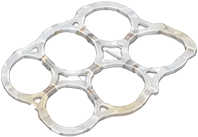
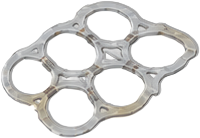
Simplify objectives and expand deep biome progression

Changed region(s): [[0.0, 0.0, 1.0, 0.9927]]

diff --git a/src/ui/App.jsx b/src/ui/App.jsx
@@ -88,14 +88,18 @@ function ConsolePopup({ titleId, descriptionId, onDismiss, className = '', child
     );
 }
 
-function CompletionPopup({ hasNextDive }) {
+function CompletionPopup({ nextLevelId, transitionDuration }) {
+    const nextDive = nextLevelId ? getLevel(nextLevelId).diveNumber : null;
     return (
         <ConsolePopup titleId="completion-heading" descriptionId="completion-description">
                     <svg className="dive-check" viewBox="0 0 64 64" aria-hidden="true"><circle cx="32" cy="32" r="28" /><path d="M 18 32 L 28 42 L 46 23" /></svg>
-                    <h2 id="completion-heading">DIVE COMPLETE</h2>
-                    <p id="completion-description">All objectives met</p>
+                    <h2 id="completion-heading">{nextLevelId ? 'GET READY' : 'DIVE COMPLETE'}</h2>
+                    <p id="completion-description">{nextLevelId ? `Preparing Dive ${nextDive}` : 'All objectives met'}</p>
                     <div className="completion-actions">
-                        {hasNextDive ? <p role="status">PREPARING NEXT DIVE...</p> : <button type="button" disabled>COMING SOON</button>}
+                        {nextLevelId ? <div className="transition-leds" role="status" aria-label={`Preparing Dive ${nextDive}`}>
+                            {Array.from({ length: 10 }, (_, index) => <i key={index} aria-hidden="true"
+                                style={{ animationDelay: `${(index + 1) * transitionDuration / 11}ms` }} />)}
+                        </div> : <button type="button" disabled>COMING SOON</button>}
                     </div>
         </ConsolePopup>
     );
@@ -125,7 +129,7 @@ function HelpPopup({ onStart }) {
                 <div><dt>A / D</dt><dd>Turn</dd></div>
                 <div><dt>SPACE</dt><dd>Extend the claws and grab objects</dd></div>
             </dl>
-            <p>Use the claws to collect cleanup items and recover artifacts you find along the way.</p>
+            <p>Use the claws to collect cleanup items you find along the way.</p>
             <p>Some objects may be partially hidden behind coral or plants. Check dense areas carefully.</p>
             <div className="completion-actions">
                 <button type="button" onClick={onStart}>RESUME DIVE</button>
@@ -136,9 +140,6 @@ function HelpPopup({ onStart }) {
 
 function MissionStatus({ state, onHelp, onRestart, helpDisabled, restartDisabled }) {
     // Read the active generated mission snapshot; never generate assets during render.
-    const requiredCount = kind => new Set(state.objectives
-        .filter(o => o.kind === kind)
-        .flatMap(o => o.objectIds ?? [])).size;
 
     return (
         <aside className="instrument-rail left-rail" aria-label="Mission instruments">
@@ -146,8 +147,6 @@ function MissionStatus({ state, onHelp, onRestart, helpDisabled, restartDisabled
                 <h2 id="mission-heading">MISSION STATUS</h2>
                 <dl className="status-values">
                     <div className="cleanup-value"><dt>Cleanup</dt><dd>{state.cleanupCount} / {state.cleanupRequired}</dd></div>
-                    <div className="discovery-value"><dt>Discoveries</dt><dd>{state.discoveries.length} / {requiredCount('discovery')}</dd></div>
-                    <div className="artifact-value"><dt>Artifacts</dt><dd>{state.artifactCount} / {state.artifactsRequired}</dd></div>
                 </dl>
             </section>
             <DiveStatus currentLevelId={state.currentLevelId} levelComplete={state.levelComplete} progressPercentage={state.progressPercentage} hasNextLevel={Boolean(getNextLevelId(state.currentLevelId))} />
@@ -161,7 +160,7 @@ function MissionStatus({ state, onHelp, onRestart, helpDisabled, restartDisabled
 
 }
 
-export default function App({ gameState, mountGame, sessionSize, onStartDive, onHelpChange, onRestartDive }) {
+export default function App({ gameState, mountGame, sessionSize, onStartDive, onHelpChange, onRestartDive, transitionDuration }) {
     const state = useSyncExternalStore(gameState.subscribe, gameState.getSnapshot);
     const [showHelp, setShowHelp] = useState(false);
     const [showStart, setShowStart] = useState(true);
@@ -190,7 +189,7 @@ export default function App({ gameState, mountGame, sessionSize, onStartDive, on
                 <GameViewport mountGame={mountGame} />
                 {showBriefing && intro && <BiomeBriefing intro={intro} onBegin={() => { onStartDive(); setStartedBiome(currentBiome); setShowStart(false); }} />}
                 {showHelp && !showCompletion && <HelpPopup onStart={() => { onHelpChange(false); setShowHelp(false); }} />}
-                {!showBriefing && showCompletion && <CompletionPopup hasNextDive={Boolean(getNextLevelId(state.currentLevelId))} />}
+                {!showBriefing && showCompletion && <CompletionPopup key={state.currentLevelId} nextLevelId={getNextLevelId(state.currentLevelId)} transitionDuration={transitionDuration} />}
             </div>
             <aside className="right-rail" aria-hidden="true" />
             <footer className="chassis-trim">

diff --git a/src/state/gameState.js b/src/state/gameState.js
@@ -4,12 +4,6 @@
 // objectives omitted from that list are optional and do not affect the percentage.
 // threshold is a fraction (0–1, default 1). mandatoryObjectiveIds must also be
 // fully completed regardless of threshold; they do not add extra progress weight.
-const progressFields = {
-    cleanup: 'cleanedObjectIds',
-    inspect: 'inspectedObjectIds',
-    discovery: 'discoveries',
-    artifact: 'artifacts',
-};
 
 function freeze(value) {
     if (value && typeof value === 'object') {
@@ -26,13 +20,8 @@ export function createGameState() {
         currentLevelId: null,
         objectives: [],
         cleanedObjectIds: [],
-        inspectedObjectIds: [],
-        discoveries: [],
-        artifacts: [],
         cleanupCount: 0,
         cleanupRequired: 0,
-        artifactCount: 0,
-        artifactsRequired: 0,
         score: 0,
         resources: {},
         progressPercentage: 0,
@@ -46,10 +35,9 @@ export function createGameState() {
 
     function derive(next) {
         next.cleanupCount = next.cleanedObjectIds.length;
-        next.artifactCount = next.artifacts.length;
-        next.objectives = level.objectives.map(objective => {
+        next.objectives = level.objectives.filter(objective => objective.kind === 'cleanup').map(objective => {
             const ids = objective.objectIds ?? [];
-            const recorded = next[progressFields[objective.kind]] ?? [];
+            const recorded = next.cleanedObjectIds;
             const current = ids.filter(id => recorded.includes(id)).length;
             return {
                 ...objective,
@@ -62,9 +50,6 @@ export function createGameState() {
         const required = requiredIds.map(id => next.objectives.find(o => o.id === id));
         next.cleanupRequired = new Set(required
             .filter(objective => objective?.kind === 'cleanup')
-            .flatMap(objective => objective.objectIds)).size;
-        next.artifactsRequired = new Set(required
-            .filter(objective => objective?.kind === 'artifact')
             .flatMap(objective => objective.objectIds)).size;
         next.progressPercentage = required.length === 0 ? 0 :
             100 * required.reduce((sum, objective) => sum +
@@ -79,12 +64,10 @@ export function createGameState() {
         return next;
     }
 
-    function record(kind, id) {
-        const field = progressFields[kind];
+    function recordCleanup(id) {
         const object = level?.objects.find(object => object.id === id);
-        const allowed = kind === 'inspect' ? object?.inspectable : object?.kind === kind;
-        if (!allowed || snapshot[field].includes(id)) return;
-        publish(derive({ ...snapshot, [field]: [...snapshot[field], id] }));
+        if (object?.kind !== 'cleanup' || snapshot.cleanedObjectIds.includes(id)) return;
+        publish(derive({ ...snapshot, cleanedObjectIds: [...snapshot.cleanedObjectIds, id] }));
     }
 
     return {
@@ -100,9 +83,6 @@ export function createGameState() {
                 currentLevelId: level.id,
                 objectives: [],
                 cleanedObjectIds: [],
-                inspectedObjectIds: [],
-                discoveries: [],
-                artifacts: [],
                 cleanupCount: 0,
                 score: 0,
                 resources: {},
@@ -110,9 +90,6 @@ export function createGameState() {
                 levelComplete: false,
             }));
         },
-        recordCleanup: id => record('cleanup', id),
-        recordInspection: id => record('inspect', id),
-        recordDiscovery: id => record('discovery', id),
-        recordArtifact: id => record('artifact', id),
+        recordCleanup,
     };
 }

diff --git a/src/ui/shell.css b/src/ui/shell.css
@@ -16,8 +16,6 @@
     --accent-yellow: #efac31;
     --border-dark: #071923;
     --readout-cleanup: #ff6450;
-    --readout-discovery: #65ddf6;
-    --readout-artifact: #ffc34b;
     --dive-active: #80ddbd;
     --dive-success: #8dffb5;
 }
@@ -55,8 +53,6 @@ h2 { font-size: 12px; letter-spacing: 0.7px; margin: 0 0 10px; }
 .status-values dd { margin: 2px 0 0; color: inherit; font-family: 'Suboceanic LCD', 'Courier New', monospace; font-style: normal; font-weight: 400; font-variant-numeric: tabular-nums; }
 .status-values dd { text-align: right; font-size: 28px; }
 .cleanup-value { color: var(--readout-cleanup); }
-.discovery-value { color: var(--readout-discovery); }
-.artifact-value { color: var(--readout-artifact); }
 .status-values dd { text-shadow: 0 0 7px currentColor; }
 .dive-status { padding: 12px; margin-top: 12px; color: var(--dive-active); flex: none; }
 .dive-status h2 { padding-bottom: 9px; border-bottom: 1px solid #698087; }
@@ -98,6 +94,9 @@ h2 { font-size: 12px; letter-spacing: 0.7px; margin: 0 0 10px; }
 .completion-inner h2 { margin: 0; font: 25px 'Suboceanic LCD', 'Courier New', monospace; text-shadow: 0 0 7px #8dffb555; }
 .completion-inner p { margin: 12px 0 22px; color: var(--text-cream); font-size: 13px; }
 .completion-actions { display: flex; gap: 12px; }
+.transition-leds { display: grid; grid-template-columns: repeat(10, 1fr); gap: 5px; width: 100%; padding: 4px 0 8px; }
+.transition-leds i { height: 10px; border: 1px solid #45615b; background: #152f38; animation: transition-led-on 0s forwards; }
+@keyframes transition-led-on { to { background: var(--dive-success); border-color: var(--dive-success); } }
 .completion-actions button { flex: 1; padding: 10px 8px; border: 2px solid #736d59; border-radius: 6px; background: var(--console-cream); color: var(--border-dark); font: bold 11px Arial, sans-serif; box-shadow: inset 0 1px 0 #fff8, 0 2px 1px #0005; cursor: pointer; }
 .completion-actions button:disabled { opacity: 0.4; cursor: default; }
 .completion-actions button:focus-visible { outline: 2px solid var(--dive-success); outline-offset: 3px; }

diff --git a/src/systems/LevelObjects.js b/src/systems/LevelObjects.js
@@ -106,9 +106,9 @@ export default class LevelObjects {
         ]);
         const requiredIds = new Set(snapshot.objectives
             .filter(objective => requiredObjectives.has(objective.id) &&
-                (objective.kind === 'cleanup' || objective.kind === 'artifact'))
+                objective.kind === 'cleanup')
             .flatMap(objective => objective.objectIds));
-        const collected = new Set([...snapshot.cleanedObjectIds, ...snapshot.artifacts]);
+        const collected = new Set(snapshot.cleanedObjectIds);
         return [...requiredIds].filter(id => !collected.has(id));
     }
 
@@ -272,8 +272,7 @@ export default class LevelObjects {
 
         for (const object of this.objects.values()) {
             const { definition, image } = object;
-            const collected = definition.kind === 'cleanup' ? snapshot.cleanedObjectIds
-                : definition.kind === 'artifact' ? snapshot.artifacts : null;
+            const collected = definition.kind === 'cleanup' ? snapshot.cleanedObjectIds : null;
             if (!collected || collected.includes(definition.id)) continue;
 
             const bounds = image.getBounds();
@@ -293,11 +292,9 @@ export default class LevelObjects {
         const target = this.findCollectibleTarget(submarine);
         this.setTarget(null);
         if (target) {
-            const isArtifact = target.definition.kind === 'artifact';
-            if (isArtifact) this.gameState.recordArtifact(target.definition.id);
-            else this.gameState.recordCleanup(target.definition.id);
+            this.gameState.recordCleanup(target.definition.id);
             const snapshot = this.gameState.getSnapshot();
-            const collected = isArtifact ? snapshot.artifacts : snapshot.cleanedObjectIds;
+            const collected = snapshot.cleanedObjectIds;
             if (collected.includes(target.definition.id)) {
                 this.showSuccess(target.image);
             }

diff --git a/src/biomes/deep.js b/src/biomes/deep.js
@@ -1,8 +1,8 @@
-// Isolated first Deep dive; all environment pools use numeric eligibility.
+// Isolated Deep dives; all environment pools use numeric eligibility.
 export default {
     biome: 100,
     fish: { schoolCount: 2, fishPerSchool: 5, color: '#0c1d2c', opacity: { min: 0.22, max: 0.35 } },
-    diveCount: 1,
+    diveCount: 5,
     intro: {
         title: 'DEEP OCEAN',
         label: 'BIOME 100',
@@ -10,8 +10,8 @@ export default {
         mission: 'Search within your light and recover debris from the depths.',
     },
     player: { x: 400, y: 300, heading: 'se' },
-    pickups: { cleanup: { start: 4, end: 4 }, artifact: { start: 0, end: 0 } },
-    density: { start: 0.4, end: 0.4, exponent: 1 },
+    pickups: { cleanup: { start: 4, end: 6 } },
+    density: { start: 0.4, end: 0.75, exponent: 1 },
     interactiveRarity: {
         common: { start: 1, end: 1 },
         uncommon: { start: 0.25, end: 0.25 },
@@ -22,12 +22,12 @@ export default {
     background: { texture: 'seabed-3', tileScale: 0.45 },
     lighting: {
         enabled: true,
-        darknessAlpha: 0.96,
+        darknessAlpha: 0.985,
         color: '2, 6, 14',
         beamLength: 320,
         beamWidthStart: 70,
         beamWidthEnd: 290,
-        softness: 0.75,
+        softness: 0.92,
         ambientTint: 0x080f1d,
         bubbleLitAmount: 0.8,
         bubbleFadeDistance: 180,
@@ -36,7 +36,7 @@ export default {
     },
     environment: {
         coralClusterCount: 2,
-        // Uses the prepared 0.10 plant multiplier; empty pools safely skip.
+        // Plant multiplier progresses from 0.10 to 0.35 across five dives.
         grassBeds: { count: { min: 6, max: 10 } },
         rockCount: { min: 6, max: 10 },
     },

diff --git a/src/main.js b/src/main.js
@@ -14,7 +14,7 @@ let sessionSize;
 let activeGame = null;
 let diveStarted = false;
 let helpOpen = false;
-const DIVE_TRANSITION_DELAY_MS = 2500;
+const DIVE_TRANSITION_DELAY_MS = 1400;
 let transitionTimer = null;
 
 function cancelTransition() {
@@ -125,7 +125,7 @@ function Startup() {
             ));
     }
     sessionSize = size;
-    return React.createElement(App, { gameState, mountGame, sessionSize: size, onStartDive: startDive, onHelpChange: setHelpOpen, onRestartDive: restartDive });
+    return React.createElement(App, { gameState, mountGame, sessionSize: size, onStartDive: startDive, onHelpChange: setHelpOpen, onRestartDive: restartDive, transitionDuration: DIVE_TRANSITION_DELAY_MS });
 }
 
 function readSessionSize() {

diff --git a/src/levels/generateDive.js b/src/levels/generateDive.js
@@ -41,7 +41,6 @@ export function generateDive({ biome, diveNumber }, random = Math.random) {
     const objectives = [];
     for (const [kind, category, count] of [
         ['cleanup', 'cleanup', Math.round(interpolate(config.pickups.cleanup))],
-        ['artifact', 'artifacts', Math.round(interpolate(config.pickups.artifact))],
     ]) {
         if (!Number.isInteger(count) || count < 0) throw new Error(`Invalid ${kind} requirement: ${count}`);
         if (!count) continue;

diff --git a/src/biomes/shallow.js b/src/biomes/shallow.js
@@ -9,7 +9,7 @@ export default {
         mission: 'Clean up debris and recover lost objects.',
     },
     player: { x: 400, y: 300, heading: 'se' },
-    pickups: { cleanup: { start: 4, end: 7 }, artifact: { start: 1, end: 2 } },
+    pickups: { cleanup: { start: 4, end: 7 } },
     // Scale habitat counts only: light at Level 1, reference at Level 3, fuller at Level 5.
     density: { start: 0.5, end: 1.5, exponent: 1 },
     interactiveRarity: {

diff --git a/src/biomes/mid.js b/src/biomes/mid.js
@@ -12,8 +12,7 @@ export default {
     player: { x: 400, y: 300, heading: 'se' },
 
     pickups: {
-        cleanup: { start: 4, end: 7 },
-        artifact: { start: 1, end: 2 }
+        cleanup: { start: 4, end: 7 }
     },
 
     density: { start: 0.5, end: 1.5, exponent: 1 },
